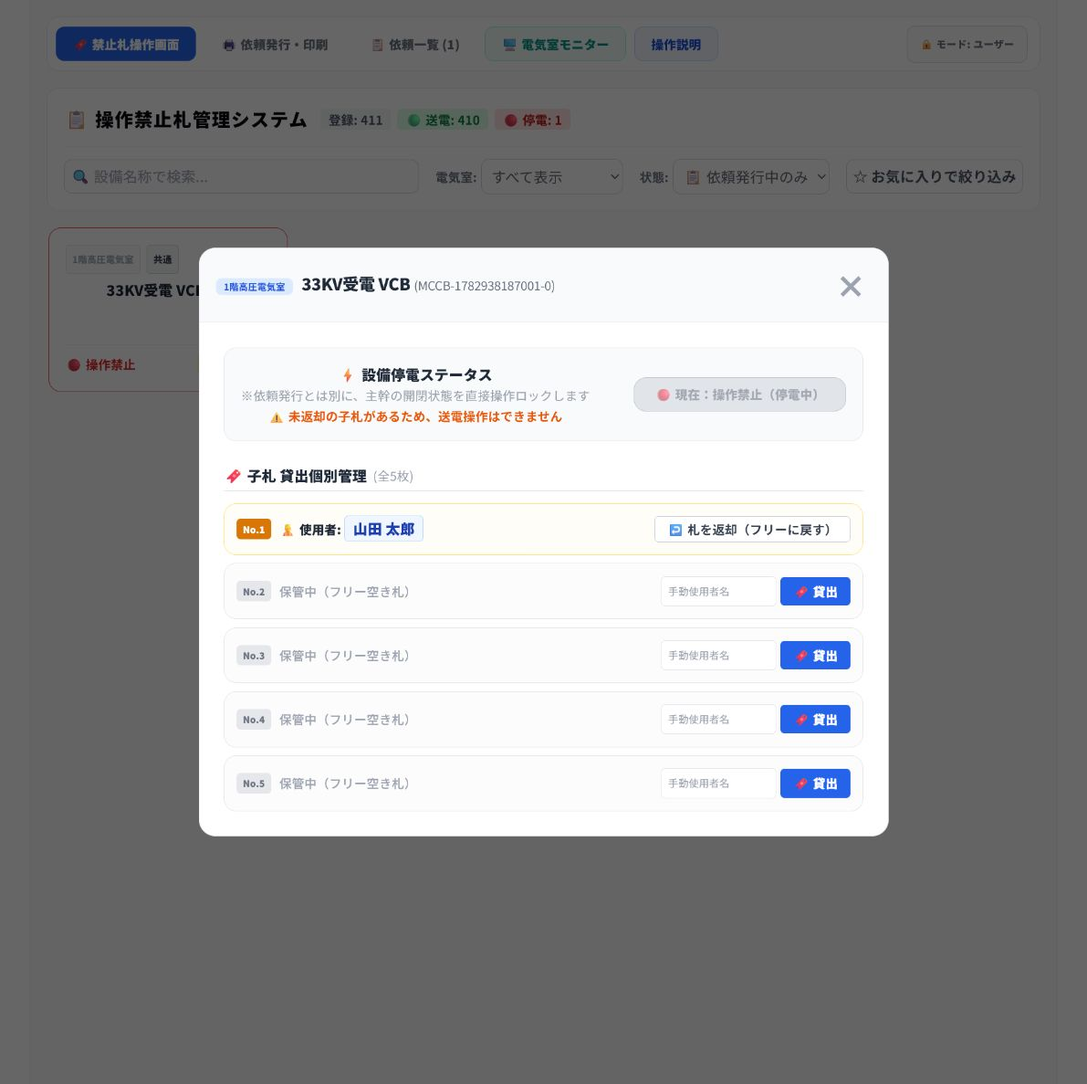
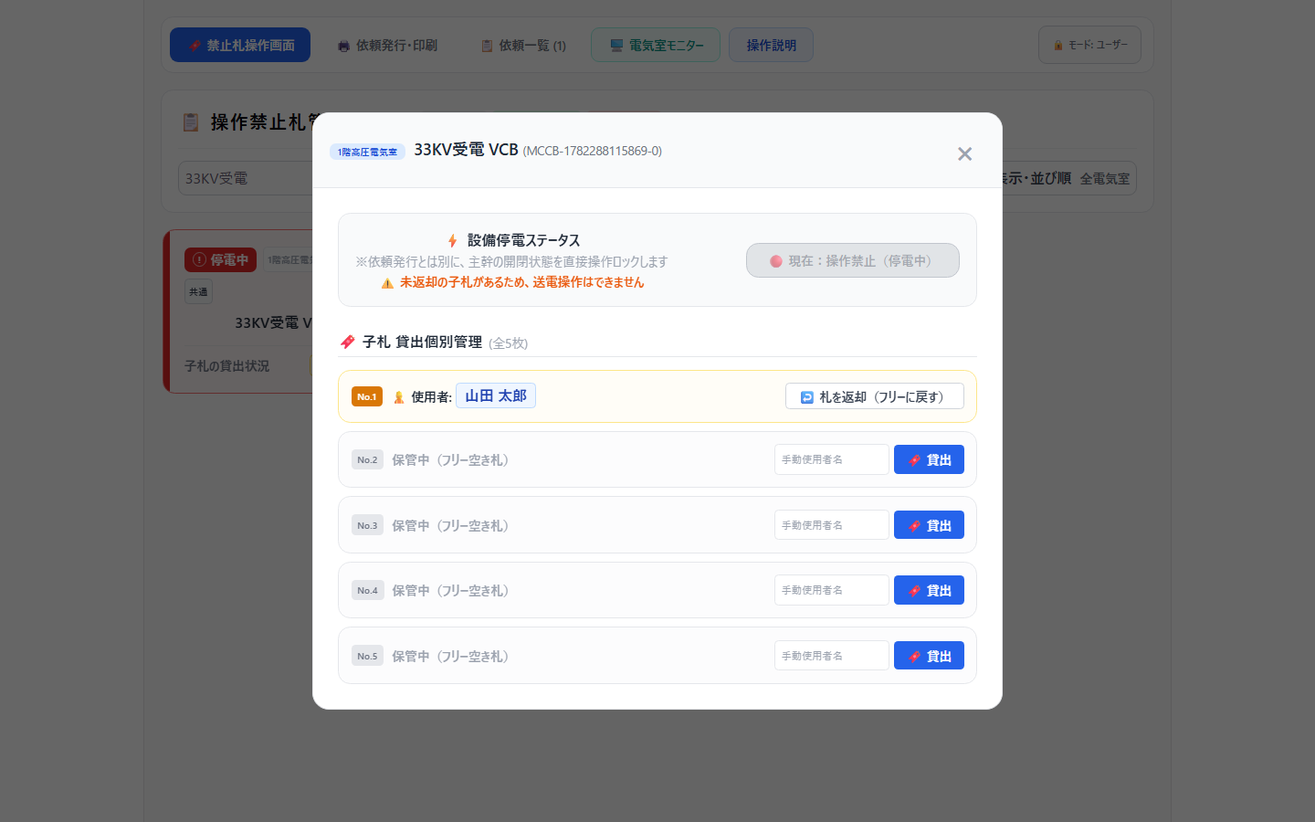
feat: 手順書の内容を更新し、表現を明確化

diff --git a/docs/power-outage-request-user-manual.html b/docs/power-outage-request-user-manual.html
@@ -1,6 +1,5 @@
-<!doctype html><html lang="ja"><head><meta charset="utf-8"><meta name="viewport" content="width=device-width, initial-scale=1"><title>停電依頼・停電操作 手順書</title><style>@page{size:A4;margin:12mm 13mm 14mm}*{box-sizing:border-box}body{font-family:-apple-system,BlinkMacSystemFont,"Noto Sans JP","Yu Gothic",Meiryo,sans-serif;color:#1f2937;line-height:1.6;margin:0}h1{font-size:24px;border-bottom:4px solid #2563eb;padding-bottom:8px}h2{font-size:18px;margin-top:24px;border-left:6px solid #2563eb;padding-left:10px;break-after:avoid}p{font-size:12px;margin:5px 0}blockquote{background:#eff6ff;border-left:5px solid #3b82f6;padding:9px 13px;font-size:11.5px;margin:10px 0}figure{margin:10px 0 16px;break-inside:avoid}figure.compact{width:88%;margin-left:auto;margin-right:auto}img{display:block;width:100%;border:1px solid #cbd5e1;border-radius:8px}figcaption{font-size:10.5px;color:#475569;text-align:center;margin-top:4px;font-weight:600}.step{padding-left:12px}.bullet{padding-left:12px}table{width:100%;border-collapse:collapse;margin:9px 0 14px;font-size:11.5px;break-inside:avoid}th,td{border:1px solid #d1d5db;padding:5px 8px}th{background:#f1f5f9}code{background:#f1f5f9;padding:1px 4px;border-radius:4px}.screen-note{background:#fff7ed;border:1px solid #fdba74;border-radius:7px;padding:7px 10px;margin:7px 0 10px}.screen-note strong{color:#9a3412}@media print{a{color:inherit;text-decoration:none}}</style></head><body><h1>停電依頼・停電操作 手順書（一般作業者向け）</h1>
-<p>対象画面: <code>http://192.168.40.59:5000/#/</code></p>
-<blockquote>この手順書は、一般作業者が「停電依頼を受ける」から「依頼発行済み設備を停電状態にする」までの通常手順を、PDF化しやすい構成でまとめたものです。  </blockquote>
+<!doctype html><html lang="ja"><head><meta charset="utf-8"><meta name="viewport" content="width=device-width, initial-scale=1"><title>停電依頼・停電操作 手順書</title><style>@page{size:A4;margin:12mm 13mm 14mm}*{box-sizing:border-box}body{font-family:-apple-system,BlinkMacSystemFont,"Noto Sans JP","Yu Gothic",Meiryo,sans-serif;color:#1f2937;line-height:1.6;margin:0}h1{font-size:24px;border-bottom:4px solid #2563eb;padding-bottom:8px}h2{font-size:18px;margin-top:24px;border-left:6px solid #2563eb;padding-left:10px;break-after:avoid}p{font-size:12px;margin:5px 0}blockquote{background:#eff6ff;border-left:5px solid #3b82f6;padding:9px 13px;font-size:11.5px;margin:10px 0}figure{margin:10px 0 16px;break-inside:avoid}figure.compact{width:88%;margin-left:auto;margin-right:auto}img{display:block;width:100%;border:1px solid #cbd5e1;border-radius:8px}figcaption{font-size:10.5px;color:#475569;text-align:center;margin-top:4px;font-weight:600}.step{padding-left:12px}.bullet{padding-left:12px}table{width:100%;border-collapse:collapse;margin:9px 0 14px;font-size:11.5px;break-inside:avoid}th,td{border:1px solid #d1d5db;padding:5px 8px}th{background:#f1f5f9}code{background:#f1f5f9;padding:1px 4px;border-radius:4px}.screen-note{background:#fff7ed;border:1px solid #fdba74;border-radius:7px;padding:7px 10px;margin:7px 0 10px}.screen-note strong{color:#9a3412}@media print{a{color:inherit;text-decoration:none}}</style></head><body><h1>停電依頼・停電操作 手順書</h1>
+<blockquote>この手順書は、一般作業者向けに「停電依頼を受ける」から「依頼発行済みの設備を停電状態にする」までの通常手順をまとめたものです。  </blockquote>
 <blockquote>PDFにする場合は、同じ内容を印刷向けに整えた <code>docs/power-outage-request-user-manual.html</code> をブラウザで開き、印刷先を「PDFに保存」にしてください。</blockquote>
 <h2>1. 通常手順の全体像</h2>
 <p class="step">1. 作業者より停電依頼を受けます。</p>
@@ -64,16 +63,16 @@
 <p class="step">3. 現地の安全手順に従って、設備を停電します。</p>
 <p class="step">4. 停電後、必要な安全確認を行います。</p>
 <p>注意</p>
-<p class="bullet">• 画面上の依頼発行は、現地設備の停電操作を代行するものではありません。</p>
-<p class="bullet">• 設備の停電操作は、現場で定められた安全手順に従って実施してください。</p>
+<p class="bullet">• 画面で依頼を発行しても、現地の設備が自動で停電するわけではありません。</p>
+<p class="bullet">• 設備の停電操作は、現場で定められた安全手順に従って行ってください。</p>
 <h2>8. 札操作画面で設備を停電中にする</h2>
 <p class="step">1. ブラウザでメイン操作画面 <code>http://192.168.40.59:5000/#/</code> を開きます。</p>
-<p class="step">2. 状態のプルダウンで <strong>📋 依頼発行中のみ</strong> を選択します。</p>
-<p class="step">3. 依頼発行中の設備だけが表示されたことを確認します。必要に応じて、<strong>設備名称で検索</strong> 欄にも設備名を入力します。</p>
-<p class="step">4. 依頼表の名称と一致する対象設備カードを選択します。</p>
+<p class="step">2. <strong>設備名称で検索</strong> 欄に、依頼表に記載された設備名を入力して絞り込みます。</p>
+<p class="step">3. 依頼発行中の設備は <strong>📋 依頼発行中</strong> の表示が上部に付きます。依頼表の名称と一致することを確認します。</p>
+<p class="step">4. 対象設備カードを選択します。</p>
 <p class="step">5. 表示された設備操作画面で <strong>現在：通常運用（送電中）</strong> ボタンを押します。</p>
 <p class="step">6. 表示が <strong>現在：操作禁止（停電中）</strong> に変わったことを確認します。</p>
-<figure><img src="./images/power-outage-request/actual-operation-requested.png" alt="実画面: 状態フィルターを依頼発行中のみにして対象設備を絞り込んだ状態"><figcaption>実画面 4: 状態を「依頼発行中のみ」にすると、対象設備だけを絞り込める</figcaption></figure>
+<figure><img src="./images/power-outage-request/actual-operation-requested.png" alt="実画面: 設備名称で検索し、依頼発行中の対象設備を絞り込んだ状態"><figcaption>実画面 4: 設備名称で検索すると、対象設備だけを絞り込める</figcaption></figure>
 <figure class="compact"><img src="./images/power-outage-request/actual-operation-requested-modal.png" alt="実画面: 依頼発行中の対象設備を選択した後の設備操作画面"><figcaption>実画面 5: 設備名を再確認して、緑色の状態ボタンを押す</figcaption></figure>
 <figure class="compact"><img src="./images/power-outage-request/actual-operation-powered-off.png" alt="実画面: 状態を切り替え、操作禁止（停電中）と表示された状態"><figcaption>実画面 6: 「操作禁止（停電中）」に変わったことを確認</figcaption></figure>
 <p>確認ポイント</p>

diff --git a/docs/power-restoration-user-manual.html b/docs/power-restoration-user-manual.html
@@ -26,16 +26,15 @@
   </style>
 </head>
 <body>
-  <h1>送電・依頼解約 手順書（一般作業者向け）</h1>
-  <p>対象画面: <code>http://192.168.40.59:5000/#/</code></p>
-  <blockquote>この手順書は、停電作業完了後に依頼表と子札を受け取り、依頼を解約して対象設備を送電状態へ戻すまでの通常手順です。</blockquote>
+  <h1>送電・依頼解約 手順書</h1>
+  <blockquote>この手順書は、停電作業が終わった後の通常手順です。依頼表と子札を受け取り、依頼を解約して、対象設備を送電状態に戻すまでの流れをまとめています。</blockquote>
 
   <h2>1. 送電手順の全体像</h2>
   <p class="step">1. 作業者から、印刷した依頼表と返却された子札を受け取ります。</p>
   <p class="step">2. 依頼一覧で該当の依頼を探し、依頼表の内容を確認します。</p>
   <p class="step">3. 対象設備一覧と子札の名称・番号が一致することを確認します。</p>
   <p class="step">4. 一致していれば、依頼を解約・作業完了にします。</p>
-  <p class="step">5. 札操作画面で、状態を <strong>札返却済みのみ</strong> に切り替えます。</p>
+  <p class="step">5. 札操作画面で、設備名称を検索して対象設備を絞り込みます。</p>
   <p class="step">6. 対象設備が <strong>送電可能</strong> であることを確認し、実際の禁止札掛けに子札5枚がそろっていることを確認します。</p>
   <p class="step">7. 現地の安全手順に従って、実際の設備を送電します。</p>
   <p class="step">8. 操作画面で対象設備を送電状態に切り替え、表示が <strong>通常運用（送電中）</strong> に変わったことを確認します。</p>
@@ -60,15 +59,15 @@
   <p class="step">1. 依頼表、対象設備、子札がすべて一致していることをもう一度確認します。</p>
   <p class="step">2. 依頼一覧の <strong>解約・作業完了（札解放）</strong> を押します。</p>
   <p class="step">3. 進行中の依頼一覧から当該依頼がなくなったことを確認します。</p>
-  <p class="note"><strong>注意:</strong> 一致確認前に解約しないでください。未返却の子札がある場合は、先に責任者へ確認します。</p>
+  <p class="note"><strong>注意:</strong> 一致確認前に解約しないでください。「解約・作業完了」を行うと、子札は返却済みの扱いになります。子札が返却されていない場合は、先に確認してください。</p>
 
   <h2>5. 札返却済みの設備を絞り込む</h2>
   <p class="step">1. 上部メニューの <strong>禁止札操作画面</strong> を選択します。</p>
-  <p class="step">2. 画面中央の <strong>状態</strong> プルダウンで <strong>✅ 札返却済みのみ</strong> を選択します。</p>
-  <p class="step">3. <strong>✅ 送電可能</strong> と表示された対象設備だけが表示されることを確認します。</p>
+  <p class="step">2. <strong>設備名称で検索</strong> 欄に、依頼表に記載された設備名を入力して絞り込みます。</p>
+  <p class="step">3. 対象設備に <strong>✅ 送電可能</strong> の表示が付いていることを確認します。</p>
   <p class="step">4. 表示された設備名が、依頼表に記載された設備名と一致することを確認します。</p>
   <p class="step">5. 画面上で子札が <strong>0枚</strong> と表示され、送電可能であることを確認します。</p>
-  <figure><img src="./images/power-restoration/send-returned-filter.png" alt="実画面: 状態を札返却済みのみにして送電可能な設備を絞り込む"><figcaption>実画面 2: 「札返却済みのみ」で送電可能な設備だけを表示</figcaption></figure>
+  <figure><img src="./images/power-restoration/send-returned-filter.png" alt="実画面: 設備名称で検索し、送電可能な設備を絞り込んだ状態"><figcaption>実画面 2: 設備名称で検索すると、送電可能な設備だけを表示できる</figcaption></figure>
 
   <h2>6. 送電操作をする</h2>
   <p class="step">1. 実際の禁止札掛けに、対象設備の子札を含む子札 <strong>5枚すべて</strong> がそろっていることを確認します。</p>
@@ -91,7 +90,7 @@
     <tr><td>依頼表と対象設備名が一致している</td><td>□</td></tr>
     <tr><td>依頼表と子札の名称・番号が一致している</td><td>□</td></tr>
     <tr><td>依頼を解約・作業完了にした</td><td>□</td></tr>
-    <tr><td>状態を「札返却済みのみ」に切り替えた</td><td>□</td></tr>
+    <tr><td>設備名称で検索して対象設備を絞り込んだ</td><td>□</td></tr>
     <tr><td>対象設備が「送電可能」、子札が0枚であることを確認した</td><td>□</td></tr>
     <tr><td>実際の禁止札掛けに子札5枚がそろっていることを確認した</td><td>□</td></tr>
     <tr><td>現地の送電条件と安全手順を確認した</td><td>□</td></tr>

diff --git a/docs/maintenance-batch-request-user-manual.html b/docs/maintenance-batch-request-user-manual.html
@@ -26,9 +26,8 @@
   </style>
 </head>
 <body>
-  <h1>修繕日・大修繕日 仮発行手順書（一般作業者向け）</h1>
-  <p>対象画面: <code>http://192.168.40.59:5000/#/</code></p>
-  <blockquote>この手順書は、修繕日・大修繕日に予定される停電作業の依頼を、事前に仮発行として登録し、当日に一致する依頼だけを正式発行する手順です。</blockquote>
+  <h1>修繕日・大修繕日 仮発行手順書</h1>
+  <blockquote>この手順書は、修繕日・大修繕日に予定されている停電作業について、依頼を事前に「仮発行」として登録しておき、当日に内容が一致した依頼だけを正式に発行する手順です。</blockquote>
 
   <h2>1. 手順の全体像</h2>
   <p class="step">1. 通常の停電依頼と同じように、作業責任者名・作業内容・対象設備を入力します。</p>
@@ -52,7 +51,7 @@
   <p class="step">2. 左下の <strong>仮発行として保存</strong> を押します。</p>
   <p class="step">3. 「停電依頼を仮発行し、仮発行一覧へ登録しました。」と表示されたことを確認します。</p>
   <p class="step">4. 修繕日にまとめて扱う依頼が複数ある場合は、依頼ごとに同じ操作を繰り返します。</p>
-  <p class="note"><strong>注意:</strong> 仮発行の段階では子札は割り当てられません。子札は、当日に発行した時点の空き札で割り当てられます。仮発行だけでは設備は停電中になりません。</p>
+  <p class="note"><strong>注意:</strong> 仮発行の段階では、子札はまだ割り当てられません。子札は、当日「発行」を押したときに、その時点で空いている札から割り当てられます。仮発行しただけでは、設備は停電中になりません。</p>
 
   <h2>4. 修繕日に仮発行一覧から該当依頼を探す</h2>
   <p class="step">1. 作業者から停電依頼を受けます。</p>
@@ -67,7 +66,7 @@
   <p class="step">1. 作業者、作業内容、予定設備が一致した依頼の <strong>発行</strong> を押します。</p>
   <p class="step">2. 発行後、依頼が <strong>進行中</strong> の一覧に移ったことを確認します。</p>
   <p class="step">3. 印刷された依頼表と、発行時に割り当てられた子札を確認します。</p>
-  <p class="note"><strong>注意:</strong> 修繕日・大修繕日で複数の仮発行があっても、依頼ごとに照合してから発行します。</p>
+  <p class="note"><strong>注意:</strong> 仮発行が複数あるときも、まとめて発行せず、依頼ごとに照合してから1件ずつ発行します。</p>
 
   <h2>6. 発行後は通常の停電手順を行う</h2>
   <p class="step">1. 印刷された依頼表をもとに、禁止札掛けから割り当てられた子札を持ち出します。</p>

diff --git a/docs/power-restoration-user-manual.md b/docs/power-restoration-user-manual.md
@@ -1,8 +1,6 @@
-# 送電・依頼解約 手順書（一般作業者向け）
+# 送電・依頼解約 手順書
 
-対象画面: `http://192.168.40.59:5000/#/`
-
-> この手順書は、停電作業が完了した後に、依頼表と子札を受け取り、依頼を解約して対象設備を送電状態へ戻すまでの通常手順です。
+> この手順書は、停電作業が終わった後の通常手順です。依頼表と子札を受け取り、依頼を解約して、対象設備を送電状態に戻すまでの流れをまとめています。
 
 ## 1. 送電手順の全体像
 
@@ -10,7 +8,7 @@
 2. 依頼一覧で該当の依頼を探し、依頼表の内容を確認します。
 3. 対象設備一覧と子札の名称・番号が一致することを確認します。
 4. 一致していれば、依頼を解約・作業完了にします。
-5. 札操作画面で、状態を **札返却済みのみ** に切り替えます。
+5. 札操作画面で、設備名称を検索して対象設備を絞り込みます。
 6. 対象設備が **送電可能** であることを確認し、実際の禁止札掛けに子札5枚がそろっていることを確認します。
 7. 現地の安全手順に従って、実際の設備を送電します。
 8. 操作画面で対象設備を送電状態に切り替え、表示が **通常運用（送電中）** に変わったことを確認します。
@@ -49,17 +47,17 @@
 **注意**
 
 - 一致確認前に解約しないでください。
-- 解約・作業完了は子札を返却済みの状態にするため、未返却の子札がある場合は先に確認します。
+- 「解約・作業完了」を行うと、子札は返却済みの扱いになります。子札が返却されていない場合は、先に確認してください。
 
 ## 5. 札返却済みの設備を絞り込む
 
 1. 上部メニューの **禁止札操作画面** を選択します。
-2. 画面中央の **状態** プルダウンで **✅ 札返却済みのみ** を選択します。
-3. **✅ 送電可能** と表示された対象設備だけが表示されることを確認します。
+2. **設備名称で検索** 欄に、依頼表に記載された設備名を入力して絞り込みます。
+3. 対象設備に **✅ 送電可能** の表示が付いていることを確認します。
 4. 表示された設備名が、依頼表に記載された設備名と一致することを確認します。
 5. 画面上で子札が **0枚** と表示され、送電可能であることを確認します。
 
-![実画面: 状態を札返却済みのみにして送電可能な設備を絞り込む](./images/power-restoration/send-returned-filter.png)
+![実画面: 設備名称で検索し、送電可能な設備を絞り込んだ状態](./images/power-restoration/send-returned-filter.png)
 
 ## 6. 送電操作をする
 
@@ -91,7 +89,7 @@
 | 依頼表と対象設備名が一致している | □ |
 | 依頼表と子札の名称・番号が一致している | □ |
 | 依頼を解約・作業完了にした | □ |
-| 状態を「札返却済みのみ」に切り替えた | □ |
+| 設備名称で検索して対象設備を絞り込んだ | □ |
 | 対象設備が「送電可能」、子札が0枚であることを確認した | □ |
 | 実際の禁止札掛けに子札5枚がそろっていることを確認した | □ |
 | 現地の送電条件と安全手順を確認した | □ |

diff --git a/docs/power-outage-request-user-manual.md b/docs/power-outage-request-user-manual.md
@@ -1,8 +1,6 @@
-# 停電依頼・停電操作 手順書（一般作業者向け）
+# 停電依頼・停電操作 手順書
 
-対象画面: `http://192.168.40.59:5000/#/`
-
-> この手順書は、一般作業者が「停電依頼を受ける」から「依頼発行済み設備を停電状態にする」までの通常手順を、PDF化しやすい構成でまとめたものです。  
+> この手順書は、一般作業者向けに「停電依頼を受ける」から「依頼発行済みの設備を停電状態にする」までの通常手順をまとめたものです。  
 > PDFにする場合は、同じ内容を印刷向けに整えた `docs/power-outage-request-user-manual.html` をブラウザで開き、印刷先を「PDFに保存」にしてください。
 
 ## 1. 通常手順の全体像
@@ -97,19 +95,19 @@
 
 **注意**
 
-- 画面上の依頼発行は、現地設備の停電操作を代行するものではありません。
-- 設備の停電操作は、現場で定められた安全手順に従って実施してください。
+- 画面で依頼を発行しても、現地の設備が自動で停電するわけではありません。
+- 設備の停電操作は、現場で定められた安全手順に従って行ってください。
 
 ## 8. 札操作画面で設備を停電中にする
 
 1. ブラウザでメイン操作画面 `http://192.168.40.59:5000/#/` を開きます。
-2. 状態のプルダウンで **📋 依頼発行中のみ** を選択します。
-3. 依頼発行中の設備だけが表示されたことを確認します。必要に応じて、**設備名称で検索** 欄にも設備名を入力します。
-4. 依頼表の名称と一致する対象設備カードを選択します。
+2. **設備名称で検索** 欄に、依頼表に記載された設備名を入力して絞り込みます。
+3. 依頼発行中の設備は **📋 依頼発行中** の表示が上部に付きます。依頼表の名称と一致することを確認します。
+4. 対象設備カードを選択します。
 5. 表示された操作画面で **現在：通常運用（送電中）** ボタンを押します。
 6. 表示が **現在：操作禁止（停電中）** に変わったことを確認します。
 
-![実画面: 状態フィルターを依頼発行中のみにして対象設備を絞り込んだ状態](./images/power-outage-request/actual-operation-requested.png)
+![実画面: 設備名称で検索し、依頼発行中の対象設備を絞り込んだ状態](./images/power-outage-request/actual-operation-requested.png)
 
 ![実画面: 依頼発行中の対象設備を選択した後の設備操作画面](./images/power-outage-request/actual-operation-requested-modal.png)
 

diff --git a/docs/operation-guide.md b/docs/operation-guide.md
@@ -22,7 +22,7 @@ https://192.168.40.111/#/
 | 画面 | URL | 使う場面 |
 | --- | --- | --- |
 | メイン操作 | `/#/` | 設備の検索、停電・送電、子札貸出 |
-| 停電依頼作成 | `/#/request` | 停電依頼表の作成、印刷 |
+| 依頼発行・印刷 | `/#/request` | 停電依頼表の作成、印刷 |
 | 依頼一覧 | `/#/request-list` | 進行中依頼、履歴、再印刷、作業完了 |
 | 電気室モニター | `/#/monitor` | モニター表示用 |
 | 管理画面 | `/#/admin` | 設備登録、CSV、マスター、ログ、DB バックアップ |
@@ -35,7 +35,7 @@ https://192.168.40.111/#/
 
 1. メイン操作画面を開きます。
 2. 設備名称で検索します。
-3. 必要に応じて、電気室、状態、お気に入りで絞り込みます。
+3. 必要に応じて、右上の `⇅ 表示・並び順` から表示する電気室や状態の並び順を変更します。お気に入り登録した設備は、同じ状態・電気室内で上位に表示されます。
 4. 設備カードをクリックすると、操作画面が開きます。
 
 状態の見方:
@@ -68,7 +68,7 @@ https://192.168.40.111/#/
 
 ### 停電依頼表を作成して印刷する
 
-1. 上部メニューの `停電依頼作成` を開きます。
+1. 上部メニューの `依頼発行・印刷` を開きます。
 2. 作業責任者名を入力します。
 3. 作業内容・目的を入力します。
 4. 対象設備を選択します。
@@ -94,9 +94,9 @@ https://192.168.40.111/#/
 
 ### 管理画面を使う
 
-1. 右上の `モード: 一般ユーザー` を押します。
+1. 右上の `モード: ユーザー` を押します。
 2. パスワード `admin` を入力します。
-3. 上部メニューの `管理` を開きます。
+3. 上部メニューの `管理画面` を開きます。
 
 管理画面でできること:
 

diff --git a/docs/maintenance-batch-request-user-manual.md b/docs/maintenance-batch-request-user-manual.md
@@ -1,8 +1,6 @@
-# 修繕日・大修繕日 仮発行手順書（一般作業者向け）
+# 修繕日・大修繕日 仮発行手順書
 
-対象画面: `http://192.168.40.59:5000/#/`
-
-> この手順書は、修繕日・大修繕日に予定される停電作業の依頼を、事前に仮発行として登録し、当日に一致する依頼だけを正式発行する手順です。
+> この手順書は、修繕日・大修繕日に予定されている停電作業について、依頼を事前に「仮発行」として登録しておき、当日に内容が一致した依頼だけを正式に発行する手順です。
 
 ## 1. 手順の全体像
 
@@ -40,7 +38,7 @@
 
 **注意**
 
-- 仮発行の段階では、子札は割り当てられません。子札は、当日に **発行** した時点の空き札で割り当てられます。
+- 仮発行の段階では、子札はまだ割り当てられません。子札は、当日「**発行**」を押したときに、その時点で空いている札から割り当てられます。
 - 仮発行しただけでは、設備は停電中になりません。
 
 ## 4. 修繕日に仮発行一覧から該当依頼を探す
@@ -67,8 +65,7 @@
 
 **注意**
 
-- 修繕日・大修繕日で複数の仮発行があっても、依頼ごとに照合してから発行します。
-- 複数の依頼をまとめて確認しても、発行は一致した依頼ごとに行います。
+- 仮発行が複数あるときも、まとめて発行せず、依頼ごとに照合してから1件ずつ発行します。
 
 ## 6. 発行後は通常の停電手順を行う
 
